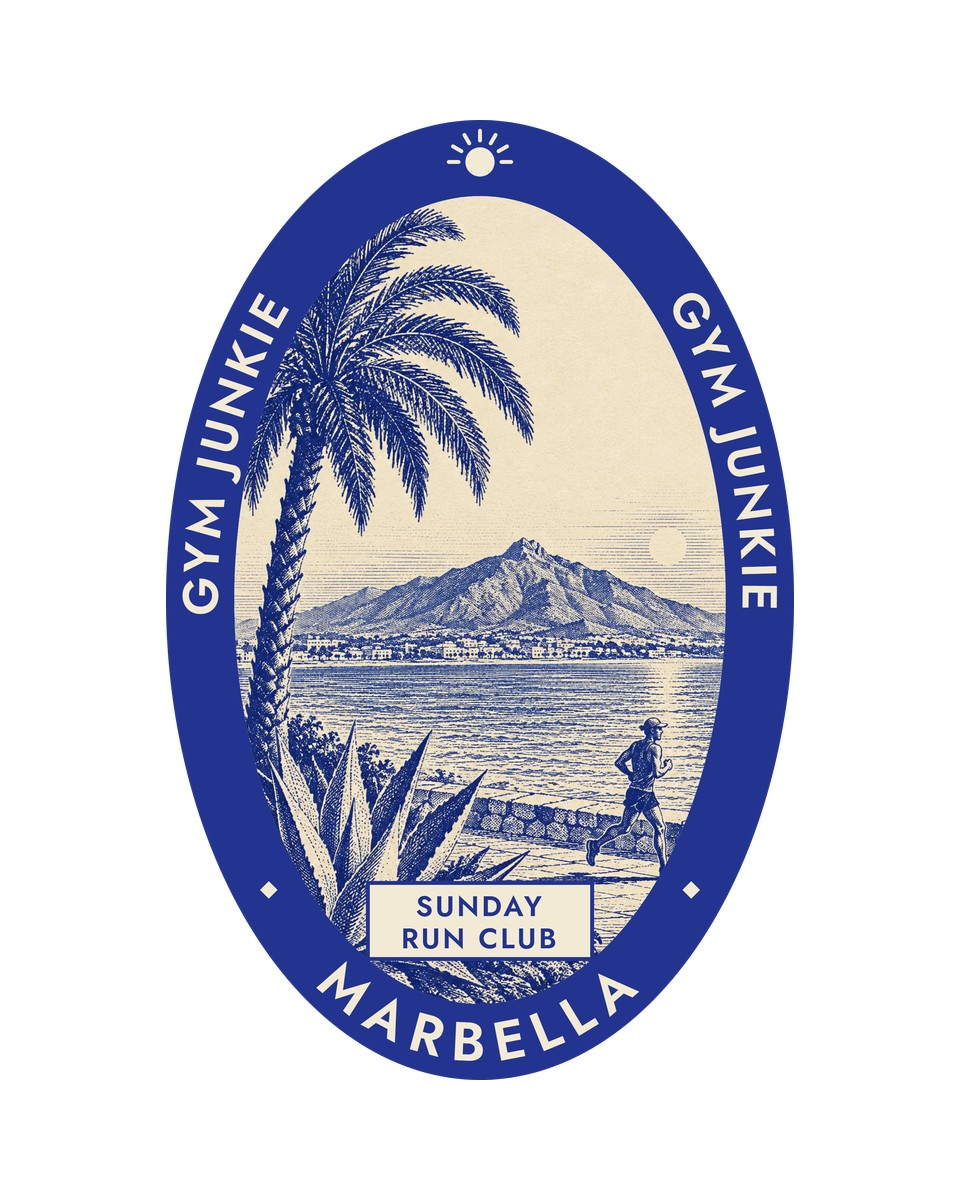
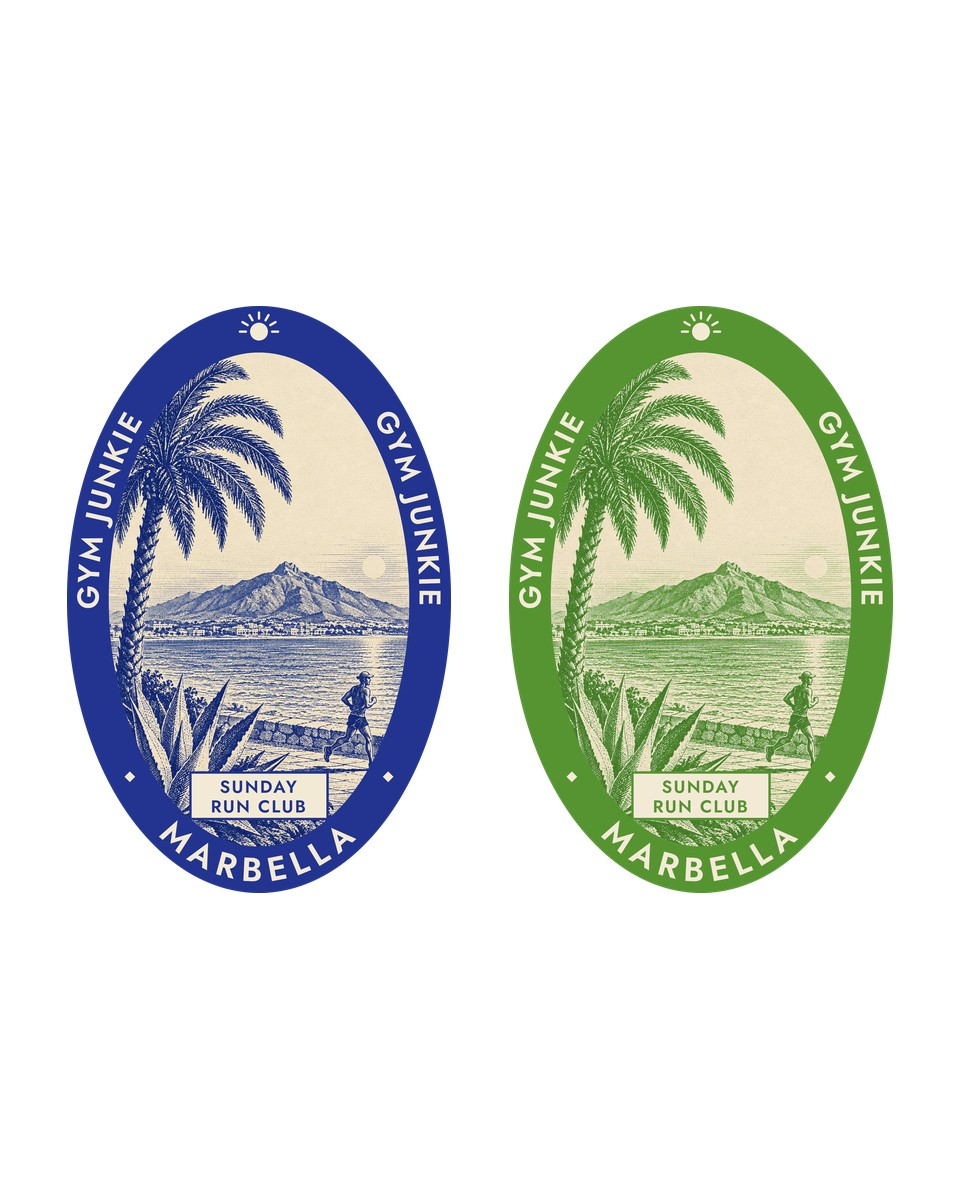
Propuesta Gym Junkie: opción B azul y verde lado a lado

diff --git a/run-junkies/index.html b/run-junkies/index.html
@@ -37,6 +37,7 @@
   .tiles a:hover img{ transform:scale(1.02); }
   .tiles i{ display:block; font-style:normal; font-family:"JetBrains Mono"; font-size:11px; letter-spacing:.12em; text-transform:uppercase; color:#6d7166; background:var(--paper); padding-top:8px; }
   .post{ max-width:420px; margin-top:18px; }
+  .wide{ display:block; margin-top:14px; overflow:hidden; }
   .post a{ display:block; }
   footer{ padding:70px 0 36px; font-family:"JetBrains Mono"; font-size:12px; letter-spacing:.06em; color:#6d7166; }
 
@@ -47,8 +48,8 @@
     header{ height:860px; display:flex; align-items:center; }
     header h1{ font-size:150px; }
     section{ padding-top:56px; }
-    #option-a, #option-b, #option-b2, #option-c, #post{ break-before:page; }
-    #option-b2{ margin-top:0; padding-top:56px; }
+    #option-a, #option-b, #option-b-wide, #option-c, #post{ break-before:page; }
+    #option-b-wide{ margin-top:0; padding-top:40px; max-width:1100px; margin-left:auto; margin-right:auto; }
     .tiles, .sub{ break-inside:avoid; }
     .sub{ break-after:avoid; }
     .post{ max-width:520px; }
@@ -73,19 +74,13 @@
 </div></section>
 
 <section id="option-b"><div class="wrap">
-  <div class="tag"><b>Option B</b><span>Sunday Run Club</span></div>
-  <div class="sub">B1<span>Navy</span></div>
+  <div class="tag"><b>Option B</b><span>Sunday Run Club · navy &amp; Gym Junkie green</span></div>
   <div class="tiles">
-    <a href="img/03-front.jpg" target="_blank"><img src="img/03-front.jpg" alt="Option B navy front: Gym Junkie Café and NAW on the chest"><i>Front</i></a>
-    <a href="img/03-front-back.jpg" target="_blank"><img src="img/03-back.jpg" alt="Option B navy back"><i>Back</i></a>
-    <a href="img/03-design.jpg" target="_blank"><img src="img/03-design.jpg" alt="Option B navy back design"><i>Design</i></a>
+    <a href="img/03-front.jpg" target="_blank"><img src="img/03-front.jpg" alt="Option B fronts, navy and green: Gym Junkie Café and NAW on the chest"><i>Front · navy / green</i></a>
+    <a href="img/03-backs-wide.jpg" target="_blank"><img src="img/03-back.jpg" alt="Option B backs, navy and green, side by side"><i>Back · navy / green</i></a>
+    <a href="img/03-design.jpg" target="_blank"><img src="img/03-design.jpg" alt="Option B designs, navy and green"><i>Design · navy / green</i></a>
   </div>
-  <div id="option-b2" class="sub">B2<span>Gym Junkie green</span></div>
-  <div class="tiles">
-    <a href="img/03g-front.jpg" target="_blank"><img src="img/03g-front.jpg" alt="Option B green front: Gym Junkie Café and NAW on the chest"><i>Front</i></a>
-    <a href="img/03g-front-back.jpg" target="_blank"><img src="img/03g-back.jpg" alt="Option B green back"><i>Back</i></a>
-    <a href="img/03g-design.jpg" target="_blank"><img src="img/03g-design.jpg" alt="Option B green back design"><i>Design</i></a>
-  </div>
+  <a id="option-b-wide" class="wide" href="img/03-backs-wide.jpg" target="_blank"><img src="img/03-backs-wide.jpg" alt="Option B navy and green tees side by side"></a>
 </div></section>
 
 <section id="option-c"><div class="wrap">
